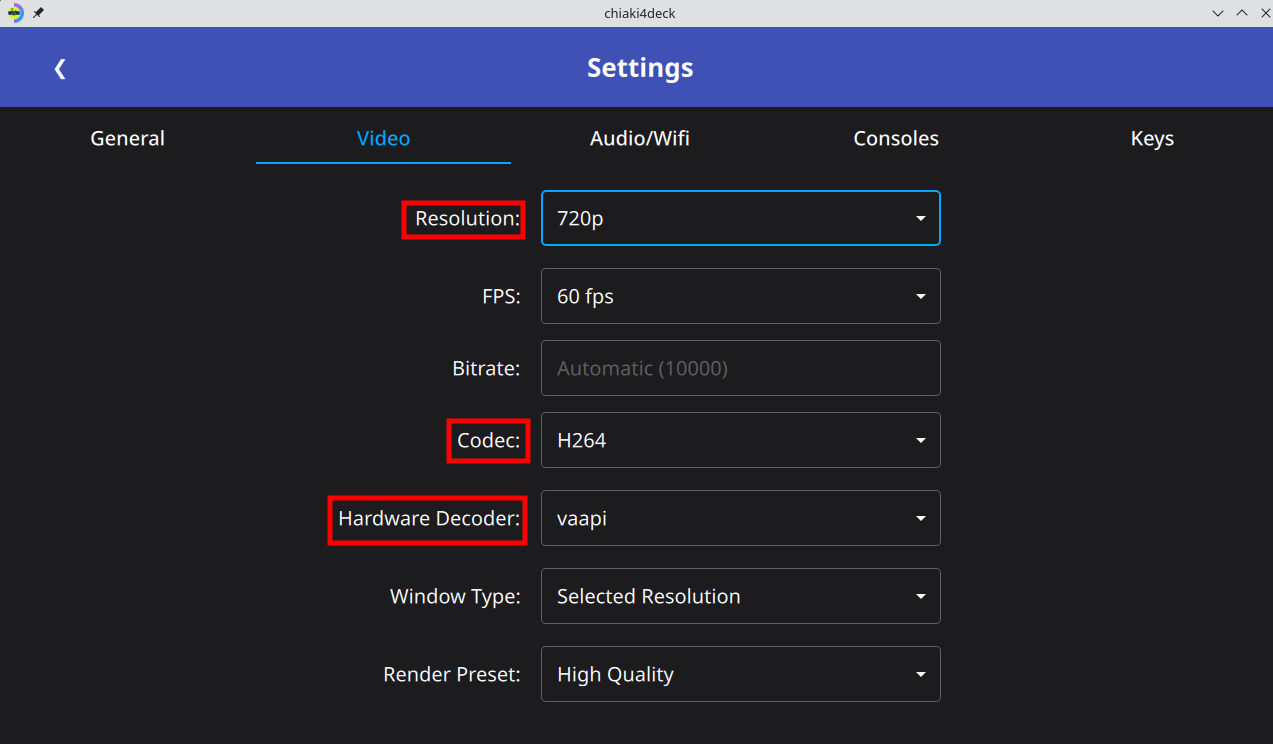
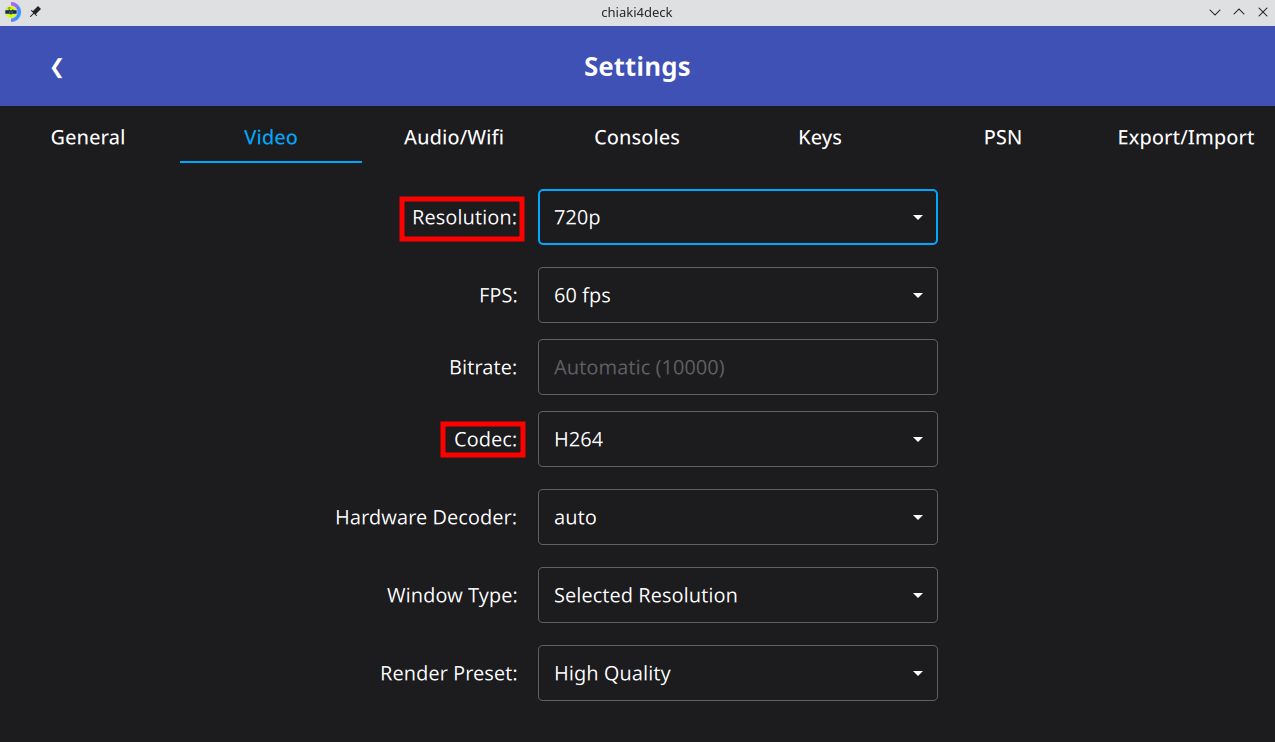
Update docs for new auto decode option and recommend 720p for non-local remote play as that will provide a better experience for most users

diff --git a/gui/src/qml/SettingsDialog.qml b/gui/src/qml/SettingsDialog.qml
@@ -286,7 +286,7 @@ DialogView {
                             case 1: bitrate = 2000; break; // 360p
                             case 2: bitrate = 6000; break; // 540p
                             case 3: bitrate = 10000; break; // 720p
-                            case 4: bitrate = 15000; break; // 1080p
+                            case 4: bitrate = 30000; break; // 1080p
                             }
                             return qsTr("Automatic (%1)").arg(bitrate);
                         }

diff --git a/docs/setup/configuration.md b/docs/setup/configuration.md
@@ -291,13 +291,13 @@ Here are different settings you can use for Chiaki/`chiaki4deck` depending on yo
 
     === "PS5/1080P HDR"
 
-        Stream output can be up to 1080p with [HDR](#hdr-high-dynamic-range). Here are the settings that are currently working well for me. This results in a native-like experience for most games on my network/setup.
+        Stream output can be up to 1080p with [HDR](#hdr-high-dynamic-range). This is the recommended setting for a local connection to a PS5 from a device that supports HDR such as the Steam Deck OLED. Here are the settings that are currently working well for me. This results in a native-like experience for most games on my network/setup.
 
         ![1080p Settings](images/1080P_SettingsHDR.png)
 
     === "PS5/1080P"
 
-        Stream output can be up to 1080p. Here are the settings that are currently working well for me. This results in a native-like experience for most games on my network/setup.
+        Stream output can be up to 1080p. This is the recommended setting for a local connection to a PS5 from a device that doesn't support HDR like the ROG Ally. Here are the settings that are currently working well for me. This results in a native-like experience for most games on my network/setup.
 
         ![1080p Settings](images/1080P_Settings.png)
 
@@ -307,9 +307,21 @@ Here are different settings you can use for Chiaki/`chiaki4deck` depending on yo
             
             However, if you are having issues with your wireless connection (i.e choppy audio, flashes in your video, or lag) while playing, then please use 720p instead. The gains you get from 1080p are nice, but aren't worth having a bad connection.
 
+    === "PS5/720P HDR"
+
+        This is the recommended setting for a remote connection for a device that supports HDR like the Steam Deck OLED to sustain high quality streaming.
+
+        ![720P PS5 HDR Settings](../images/720P_PS5HDRSettings.png)
+
+    === "PS5/720P"
+
+        This is the recommended setting for a remote connection for a device that doesn't supports HDR like the ROG Ally to sustain high quality streaming.
+
+        ![720P PS5 Settings](../images/720P_PS5Settings.png)
+
     === "PS4/720P"
 
-        For PS4, the stream is limited to 720p. Using the defaults for most values works well here, resulting in native-like (albeit w/ a diminished resolution) experience for most games on my network/setup.
+        For PS4, the stream is limited to 720p. Using the defaults for most values works well here, resulting in native-like (albeit w/ a diminished resolution) experience for most games on my network/setup. This is the recommended setting for use with the PS4 for local and remote connections.
 
         ![720p Settings](images/720P_Settings.png)
 
